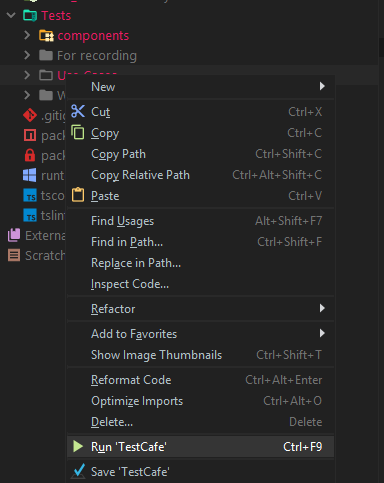
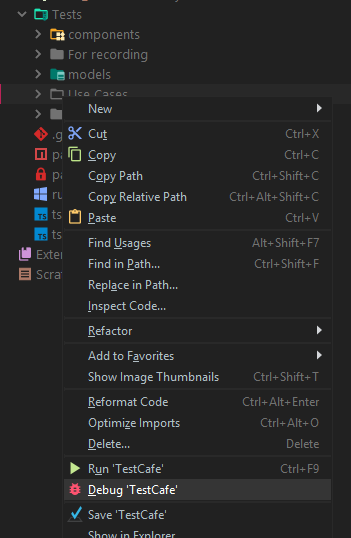
Updated readme + version bump

diff --git a/README.md b/README.md
@@ -3,37 +3,38 @@
 Integration with [TestCafe](https://devexpress.github.io/testcafe/) TestCafe A node.js tool to automate end-to-end web testing. 
 This plugin allows you to run TestCafe tests directly from Webstorm.
 
-* Run a particular test, fixture, all tests in a file or directory via the context menu
+* Run a specific test, fixture, all tests in a file or directory via the context menu
+* Debug a specific test, fixture, all tests in a file or directory via the context menu
 * View test results in the 'Run Console'
 
 ## Requirements
 
 TestCafe should be installed in your project as a local package. To install it, use the npm install testcafe command or add TestCafe to dependencies in your package.json file. Your project should contain TestCafe modules in node_modules\testcafe\.... 
 
-### Running a specific test
-
-To run a specific test, invoke the context menu when the cursor is placed on the test name.
-
-![Target](./images/specific.png)
-
-### Running all tests in a fixture
-
-To run all tests in a test fixture, invoke the context menu when the cursor is placed on the fixture name.
-
-![Target](./images/fixture.png)
-
-### Running all tests in a file
-
-To run all tests in the current file, invoke the context menu for this file.
-
-### Running all tests in a folder
-
-To run all test files in a folder, invoke the context menu for this folder.
-
-![Target](./images/alltests.png)
-
 ### Change browser
 
 You can change the browser in the run configuration.
 
 ![Configuration](./images/runconfiguration.png)
+
+### Running/debugging a specific test
+
+To run/debug a specific test, invoke the context menu when the cursor is placed on the test name.
+
+![Specific](./images/specific.png)
+
+### Running/debugging all tests in a fixture
+
+To run/debug all tests in a test fixture, invoke the context menu when the cursor is placed on the fixture name.
+
+![Fixture](./images/fixture.png)
+
+### Running all/debugging tests in a file
+
+To run/debug all tests in the current file, invoke the context menu for this file.
+
+### Running all tests in a folder
+
+To run all test files in a folder, invoke the context menu for this folder.
+
+![All](./images/alltests.png)
